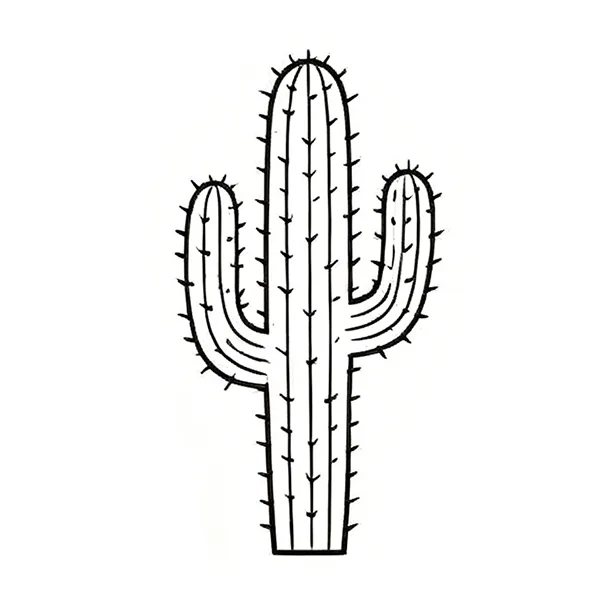
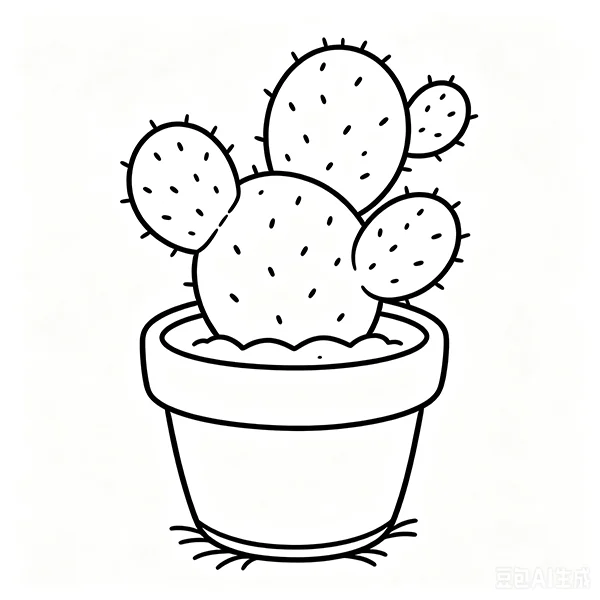
Expand visual training image banks

Changed region(s): [[0.21, 0.06, 0.81, 0.96]]

diff --git a/src/utils/visualTraining.ts b/src/utils/visualTraining.ts
@@ -2,6 +2,7 @@ import type { ObjectNamingQuestion, OddOneOutQuestion, ShapeCopyTask, TrainingSe
 
 const objectImageBase = `${import.meta.env.BASE_URL}object-images/`;
 const shapeCopyImageBase = `${import.meta.env.BASE_URL}shape-copy-images/`;
+const oddOneOutImageBase = `${import.meta.env.BASE_URL}odd-one-out-images/`;
 
 const objectItems = [
   { name: 'T恤', icon: `${objectImageBase}object-001.webp` },
@@ -102,6 +103,57 @@ const objectItems = [
   { name: '鸭子', icon: `${objectImageBase}object-096.webp` },
   { name: '鹅', icon: `${objectImageBase}object-097.webp` },
   { name: '鹦鹉', icon: `${objectImageBase}object-098.webp` },
+  { name: '书桌', icon: `${objectImageBase}object-099.webp` },
+  { name: '冰淇淋', icon: `${objectImageBase}object-100.webp` },
+  { name: '凳子', icon: `${objectImageBase}object-101.webp` },
+  { name: '凳子', icon: `${objectImageBase}object-102.webp` },
+  { name: '吹风机', icon: `${objectImageBase}object-103.webp` },
+  { name: '塔吊', icon: `${objectImageBase}object-104.webp` },
+  { name: '大萝卜', icon: `${objectImageBase}object-105.webp` },
+  { name: '姜', icon: `${objectImageBase}object-106.webp` },
+  { name: '小桥', icon: `${objectImageBase}object-107.webp` },
+  { name: '小麦', icon: `${objectImageBase}object-108.webp` },
+  { name: '帽子', icon: `${objectImageBase}object-109.webp` },
+  { name: '床', icon: `${objectImageBase}object-110.webp` },
+  { name: '扇子', icon: `${objectImageBase}object-111.webp` },
+  { name: '扇贝', icon: `${objectImageBase}object-112.webp` },
+  { name: '手表', icon: `${objectImageBase}object-113.webp` },
+  { name: '打火机', icon: `${objectImageBase}object-114.webp` },
+  { name: '指南针', icon: `${objectImageBase}object-115.webp` },
+  { name: '梳子', icon: `${objectImageBase}object-116.webp` },
+  { name: '棒球帽', icon: `${objectImageBase}object-117.webp` },
+  { name: '椰子树', icon: `${objectImageBase}object-118.webp` },
+  { name: '水龙头', icon: `${objectImageBase}object-119.webp` },
+  { name: '汉堡包', icon: `${objectImageBase}object-120.webp` },
+  { name: '沙发', icon: `${objectImageBase}object-121.webp` },
+  { name: '洋葱', icon: `${objectImageBase}object-122.webp` },
+  { name: '洗衣机', icon: `${objectImageBase}object-123.webp` },
+  { name: '海螺', icon: `${objectImageBase}object-124.webp` },
+  { name: '游泳圈', icon: `${objectImageBase}object-125.webp` },
+  { name: '滑梯', icon: `${objectImageBase}object-126.webp` },
+  { name: '灯笼', icon: `${objectImageBase}object-127.webp` },
+  { name: '照相机', icon: `${objectImageBase}object-128.webp` },
+  { name: '牡丹', icon: `${objectImageBase}object-129.webp` },
+  { name: '牵牛花', icon: `${objectImageBase}object-130.webp` },
+  { name: '玉米', icon: `${objectImageBase}object-131.webp` },
+  { name: '电脑', icon: `${objectImageBase}object-132.webp` },
+  { name: '眼镜', icon: `${objectImageBase}object-133.webp` },
+  { name: '秋千', icon: `${objectImageBase}object-134.webp` },
+  { name: '竹子', icon: `${objectImageBase}object-135.webp` },
+  { name: '竹笋', icon: `${objectImageBase}object-136.webp` },
+  { name: '箩筐', icon: `${objectImageBase}object-137.webp` },
+  { name: '荷花', icon: `${objectImageBase}object-138.webp` },
+  { name: '轮椅', icon: `${objectImageBase}object-139.webp` },
+  { name: '辣椒', icon: `${objectImageBase}object-140.webp` },
+  { name: '钥匙', icon: `${objectImageBase}object-141.webp` },
+  { name: '铁锹', icon: `${objectImageBase}object-142.webp` },
+  { name: '长城', icon: `${objectImageBase}object-143.webp` },
+  { name: '闹钟', icon: `${objectImageBase}object-144.webp` },
+  { name: '雨伞', icon: `${objectImageBase}object-145.webp` },
+  { name: '风车', icon: `${objectImageBase}object-146.webp` },
+  { name: '马扎', icon: `${objectImageBase}object-147.webp` },
+  { name: '马桶', icon: `${objectImageBase}object-148.webp` },
+  { name: '麦克风', icon: `${objectImageBase}object-149.webp` },
 ];
 
 const aliasMap: Record<string, string[]> = {
@@ -117,6 +169,16 @@ const aliasMap: Record<string, string[]> = {
   虾米: ['虾'],
   西蓝花: ['西兰花'],
   马甲: ['背心'],
+  书桌: ['桌子', '写字台'],
+  冰淇淋: ['冰激凌', '雪糕'],
+  吹风机: ['电吹风'],
+  大萝卜: ['萝卜'],
+  照相机: ['相机'],
+  电脑: ['计算机'],
+  箩筐: ['筐子', '篮子'],
+  铁锹: ['铁铲', '铲子'],
+  马扎: ['凳子'],
+  麦克风: ['话筒'],
 };
 
 const objectBank: Array<Omit<ObjectNamingQuestion, 'id'>> = objectItems.map((item) => ({
@@ -149,28 +211,27 @@ export function normalizeVisualAssetUrls(session: TrainingSession): void {
 }
 
 const oddBank = [
-  { prompt: '找出不一样的数字', itemLabel: '15', oddLabel: '12' },
-  { prompt: '找出不一样的数字', itemLabel: '68', oddLabel: '86' },
-  { prompt: '找出不一样的数字', itemLabel: '36', oddLabel: '38' },
-  { prompt: '找出不一样的数字', itemLabel: '909', oddLabel: '606' },
-  { prompt: '找出不一样的字母', itemLabel: 'T', oddLabel: '工' },
-  { prompt: '找出不一样的字母', itemLabel: 'E', oddLabel: 'F' },
-  { prompt: '找出不一样的字母', itemLabel: 'b', oddLabel: 'd' },
-  { prompt: '找出不一样的字母', itemLabel: 'p', oddLabel: 'q' },
-  { prompt: '找出不一样的汉字', itemLabel: '半', oddLabel: '羊' },
-  { prompt: '找出不一样的汉字', itemLabel: '日', oddLabel: '目' },
-  { prompt: '找出不一样的汉字', itemLabel: '土', oddLabel: '士' },
-  { prompt: '找出不一样的汉字', itemLabel: '末', oddLabel: '未' },
-  { prompt: '找出不一样的数字', itemLabel: '180', oddLabel: 'IBO' },
-  { prompt: '找出不一样的图形', itemLabel: '○', oddLabel: '□' },
-  { prompt: '找出不一样的图形', itemLabel: '△', oddLabel: '▽' },
-  { prompt: '找出不一样的图形', itemLabel: '+', oddLabel: '×' },
-  { prompt: '找出不一样的图形', itemLabel: '◇', oddLabel: '◆' },
-  { prompt: '找出不一样的方向', itemLabel: '→', oddLabel: '←' },
-  { prompt: '找出不一样的方向', itemLabel: '↑', oddLabel: '↓' },
-  { prompt: '找出不一样的方向', itemLabel: '↗', oddLabel: '↘' },
-  { prompt: '找出不一样的符号', itemLabel: '✓', oddLabel: '−' },
-  { prompt: '找出不一样的符号', itemLabel: '=', oddLabel: '≠' },
+  {
+    prompt: '找出方向不一样的手套',
+    itemLabel: '手套图一',
+    oddLabel: '手套图二',
+    itemImageUrl: `${oddOneOutImageBase}glove-1.webp`,
+    oddImageUrl: `${oddOneOutImageBase}glove-2.webp`,
+  },
+  {
+    prompt: '找出翅膀花纹不一样的蝴蝶',
+    itemLabel: '蝴蝶图一',
+    oddLabel: '蝴蝶图二',
+    itemImageUrl: `${oddOneOutImageBase}butterfly-1.webp`,
+    oddImageUrl: `${oddOneOutImageBase}butterfly-2.webp`,
+  },
+  {
+    prompt: '找出篮子里不一样的青菜',
+    itemLabel: '青菜图一',
+    oddLabel: '青菜图二',
+    itemImageUrl: `${oddOneOutImageBase}vegetable-1.webp`,
+    oddImageUrl: `${oddOneOutImageBase}vegetable-2.webp`,
+  },
 ];
 
 function randomId(prefix: string, index: number): string {
@@ -203,11 +264,27 @@ export function generateOddOneOutQuestions(count = 3): OddOneOutQuestion[] {
       const answerIndex = Math.floor(Math.random() * 9);
       return {
         id: randomId('odd', index),
-        ...item,
+        prompt: item.prompt,
+        itemLabel: item.itemLabel,
+        oddLabel: item.oddLabel,
+        contentType: 'image',
         answerIndex,
-        grid: Array.from({ length: 9 }, (_, gridIndex) => (gridIndex === answerIndex ? item.oddLabel : item.itemLabel)),
+        grid: Array.from({ length: 9 }, (_, gridIndex) =>
+          gridIndex === answerIndex ? item.oddImageUrl : item.itemImageUrl,
+        ),
       };
     });
+}
+
+export function isImageOddOneOutQuestion(question: OddOneOutQuestion): boolean {
+  return question.contentType === 'image';
+}
+
+export function oddOneOutChoiceLabel(question: OddOneOutQuestion, index: number): string {
+  if (question.contentType === 'image') {
+    return index === question.answerIndex ? question.oddLabel : question.itemLabel;
+  }
+  return question.grid[index] ?? '未记录';
 }
 
 export function normalizeAnswer(value: string): string {

diff --git a/src/pages/OddOneOutPage.vue b/src/pages/OddOneOutPage.vue
@@ -18,7 +18,8 @@
             :disabled="waiting"
             @click="choose(index)"
           >
-            {{ item }}
+            <img v-if="current.contentType === 'image'" :src="item" alt="" draggable="false" />
+            <span v-else>{{ item }}</span>
           </button>
         </div>
       </ResultCard>
@@ -107,13 +108,27 @@ h2 {
 }
 
 .odd-item {
+  min-width: 0;
   min-height: 92px;
+  aspect-ratio: 1;
+  padding: 5px;
   border: 2px solid var(--color-border);
   border-radius: 8px;
   background: #ffffff;
   color: #1689b6;
   font-size: 2rem;
   font-weight: 900;
+  overflow: hidden;
+  touch-action: manipulation;
+}
+
+.odd-item img {
+  display: block;
+  width: 100%;
+  height: 100%;
+  object-fit: contain;
+  pointer-events: none;
+  user-select: none;
 }
 
 .odd-item.selected {

diff --git a/src/pages/ResultPage.vue b/src/pages/ResultPage.vue
@@ -90,7 +90,7 @@
           <div v-for="(question, index) in session.oddOneOutQuestions ?? []" :key="question.id" class="question-row">
             <strong>第 {{ index + 1 }} 题：{{ question.prompt }}</strong>
             <span>正确答案：第 {{ question.answerIndex + 1 }} 个（{{ question.oddLabel }}）</span>
-            <span>选择：{{ question.selectedIndex === undefined ? '暂未作答' : `第 ${question.selectedIndex + 1} 个（${question.grid[question.selectedIndex]}）` }}</span>
+            <span>选择：{{ selectedOddAnswer(question) }}</span>
             <span>情况：{{ objectiveStatusText(question.isCorrect, question.skipped) }}</span>
             <span>用时：{{ formatDuration(question.timeSpentSeconds) }}</span>
           </div>
@@ -141,11 +141,12 @@ import PageContainer from '../components/PageContainer.vue';
 import ProgressHeader from '../components/ProgressHeader.vue';
 import ResultCard from '../components/ResultCard.vue';
 import { useTrainingStore } from '../stores/trainingStore';
-import type { MathQuestion, ObjectNamingQuestion, PatientMood, TrainingSession } from '../types';
+import type { MathQuestion, ObjectNamingQuestion, OddOneOutQuestion, PatientMood, TrainingSession } from '../types';
 import { formatDuration } from '../utils/date';
 import { bestShapeAttempt as getBestShapeAttempt } from '../utils/drawingEvaluation';
 import { buildNextTrainingSuggestions, patientMoodText, preTrainingStatusText } from '../utils/sessionInsights';
 import { findSession } from '../utils/storage';
+import { oddOneOutChoiceLabel } from '../utils/visualTraining';
 
 const route = useRoute();
 const router = useRouter();
@@ -156,6 +157,11 @@ const isHistoryDetail = Boolean(route.params.id);
 const isEditing = ref(!isHistoryDetail);
 const mood = ref<PatientMood>(session.value?.patientMood ?? 'calm');
 const note = ref(session.value?.caregiverNote ?? '');
+
+function selectedOddAnswer(question: OddOneOutQuestion): string {
+  if (question.selectedIndex === undefined) return '暂未作答';
+  return `第 ${question.selectedIndex + 1} 个（${oddOneOutChoiceLabel(question, question.selectedIndex)}）`;
+}
 
 const answeredMath = computed(() => session.value?.mathQuestions.filter((q) => !q.skipped).length ?? 0);
 const correctMath = computed(() => session.value?.mathQuestions.filter((q) => q.isCorrect).length ?? 0);

diff --git a/src/stores/trainingStore.ts b/src/stores/trainingStore.ts
@@ -27,6 +27,7 @@ import {
   generateObjectNamingQuestions,
   generateOddOneOutQuestions,
   generateShapeCopyTask,
+  isImageOddOneOutQuestion,
   normalizeVisualAssetUrls,
 } from '../utils/visualTraining';
 import { syncTrainingSession, trackActivity } from '../services/cloudTracking';
@@ -50,7 +51,12 @@ export function useTrainingStore() {
   function ensureVisualTasks(session: TrainingSession) {
     if (!session.objectNamingQuestions?.length) session.objectNamingQuestions = generateObjectNamingQuestions();
     if (!session.shapeCopyTask) session.shapeCopyTask = generateShapeCopyTask();
-    if (!session.oddOneOutQuestions?.length) session.oddOneOutQuestions = generateOddOneOutQuestions();
+    if (
+      !session.oddOneOutQuestions?.length ||
+      session.oddOneOutQuestions.some((question) => !isImageOddOneOutQuestion(question))
+    ) {
+      session.oddOneOutQuestions = generateOddOneOutQuestions();
+    }
     normalizeVisualAssetUrls(session);
     preloadTrainingImages(session);
   }

diff --git a/src/pages/AdminSessionDetailPage.vue b/src/pages/AdminSessionDetailPage.vue
@@ -129,6 +129,7 @@ import type { MathQuestion, ObjectNamingQuestion, OddOneOutQuestion, TrainingSes
 import { formatDuration } from '../utils/date';
 import { bestShapeAttempt as getBestShapeAttempt } from '../utils/drawingEvaluation';
 import { buildNextTrainingSuggestions, patientMoodText, preTrainingStatusText } from '../utils/sessionInsights';
+import { oddOneOutChoiceLabel } from '../utils/visualTraining';
 
 const route = useRoute();
 const router = useRouter();
@@ -231,7 +232,7 @@ function objectiveStatusText(isCorrect?: boolean, skipped?: boolean): string {
 
 function selectedOddAnswer(question: OddOneOutQuestion): string {
   if (question.selectedIndex === undefined) return '暂未作答';
-  return `第 ${question.selectedIndex + 1} 个（${question.grid[question.selectedIndex] ?? '未记录'}）`;
+  return `第 ${question.selectedIndex + 1} 个（${oddOneOutChoiceLabel(question, question.selectedIndex)}）`;
 }
 
 function objectInputText(method?: ObjectNamingQuestion['inputMethod']): string {

diff --git a/src/utils/imagePreloader.ts b/src/utils/imagePreloader.ts
@@ -25,6 +25,9 @@ function preloadImage(url: string): Promise<void> {
 export function collectTrainingImageUrls(session: TrainingSession): string[] {
   const urls = [
     ...(session.objectNamingQuestions ?? []).map((question) => question.icon),
+    ...(session.oddOneOutQuestions ?? []).flatMap((question) =>
+      question.contentType === 'image' ? question.grid : [],
+    ),
     session.shapeCopyTask?.referenceImageUrl,
   ];
 

diff --git a/src/types/index.ts b/src/types/index.ts
@@ -102,6 +102,7 @@ export interface OddOneOutQuestion {
   itemLabel: string;
   oddLabel: string;
   grid: string[];
+  contentType?: 'text' | 'image';
   answerIndex: number;
   selectedIndex?: number;
   isCorrect?: boolean;